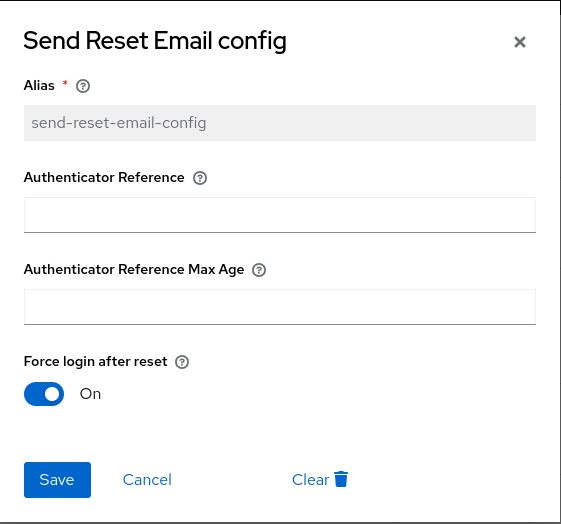
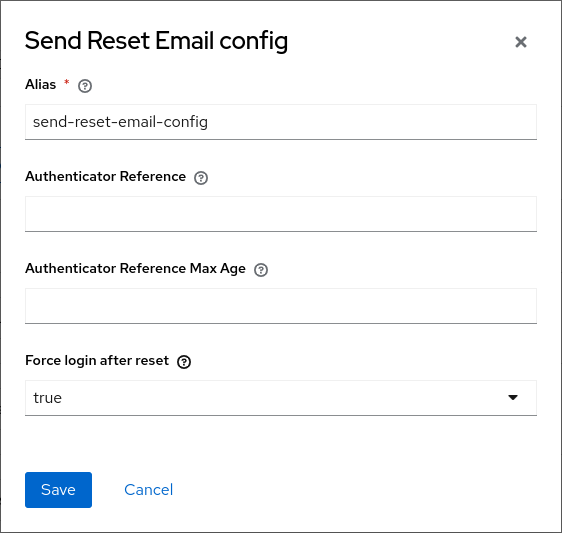
Force login in reset-credentials to federated users Closes #37207

diff --git a/testsuite/integration-arquillian/tests/base/src/test/java/org/keycloak/testsuite/forms/ResetPasswordTest.java b/testsuite/integration-arquillian/tests/base/src/test/java/org/keycloak/testsuite/forms/ResetPasswordTest.java
@@ -25,6 +25,7 @@ import org.keycloak.authentication.actiontoken.resetcred.ResetCredentialsActionT
 import org.keycloak.authentication.authenticators.resetcred.ResetCredentialEmail;
 import org.jboss.arquillian.graphene.page.Page;
 import org.keycloak.common.constants.ServiceAccountConstants;
+import org.keycloak.common.util.MultivaluedHashMap;
 import org.keycloak.common.util.KeycloakUriBuilder;
 import org.keycloak.events.Details;
 import org.keycloak.events.Errors;
@@ -37,14 +38,19 @@ import org.keycloak.models.utils.SystemClientUtil;
 import org.keycloak.representations.idm.AuthenticationExecutionInfoRepresentation;
 import org.keycloak.representations.idm.AuthenticatorConfigRepresentation;
 import org.keycloak.representations.idm.ClientRepresentation;
+import org.keycloak.representations.idm.ComponentRepresentation;
 import org.keycloak.representations.idm.EventRepresentation;
 import org.keycloak.representations.idm.RealmRepresentation;
 import org.keycloak.representations.idm.UserRepresentation;
 import org.keycloak.services.resources.LoginActionsService;
+import org.keycloak.storage.StorageId;
+import org.keycloak.storage.UserStorageProvider;
+import org.keycloak.storage.UserStorageProviderModel;
 import org.keycloak.testsuite.AssertEvents;
 import org.keycloak.testsuite.AbstractTestRealmKeycloakTest;
 import org.keycloak.testsuite.admin.ApiUtil;
 import org.keycloak.testsuite.arquillian.annotation.IgnoreBrowserDriver;
+import org.keycloak.testsuite.federation.UserMapStorageFactory;
 import org.keycloak.testsuite.federation.kerberos.AbstractKerberosTest;
 import org.keycloak.testsuite.pages.AppPage;
 import org.keycloak.testsuite.pages.AppPage.RequestType;
@@ -339,19 +345,39 @@ public class ResetPasswordTest extends AbstractTestRealmKeycloakTest {
     @Test
     public void resetPasswordForceLogin() throws IOException, MessagingException {
         // add the force login option in the reset-credential-email authenticator
-        AuthenticationExecutionInfoRepresentation sendEmailExec = testRealm()
-                .flows()
-                .getExecutions(DefaultAuthenticationFlows.RESET_CREDENTIALS_FLOW)
-                .stream()
-                .filter(e -> ResetCredentialEmail.PROVIDER_ID.equals(e.getProviderId()))
-                .findAny().orElseThrow();
-        AuthenticatorConfigRepresentation config = new AuthenticatorConfigRepresentation();
-        config.setAlias("reset-password-config");
-        config.getConfig().put(ResetCredentialEmail.FORCE_LOGIN, Boolean.TRUE.toString());
-        String configId = ApiUtil.getCreatedId(testRealm().flows().newExecutionConfig(sendEmailExec.getId(), config));
-        getCleanup().addAuthenticationConfigId(configId);
+        configureForceLogin(Boolean.TRUE.toString());
 
         resetPassword("login-test", "resetPassword", true);
+    }
+
+    @Test
+    public void resetPasswordForceLoginFederatedUser() throws IOException, MessagingException {
+        // create the example map storage user federation
+        ComponentRepresentation memProvider = new ComponentRepresentation();
+        memProvider.setName(UserStorageProvider.class.getName());
+        memProvider.setProviderId(UserMapStorageFactory.PROVIDER_ID);
+        memProvider.setProviderType(UserStorageProvider.class.getName());
+        memProvider.setConfig(new MultivaluedHashMap<>());
+        memProvider.getConfig().putSingle("priority", Integer.toString(0));
+        memProvider.getConfig().putSingle(UserStorageProviderModel.IMPORT_ENABLED, Boolean.toString(false));
+        String componentId = ApiUtil.getCreatedId(testRealm().components().add(memProvider));
+        getCleanup().addComponentId(componentId);
+
+        // remove the test user and create it but federated
+        testRealm().users().get(userId).remove();
+        UserRepresentation user = new UserRepresentation();
+        user.setUsername("login-test");
+        user.setEmail("login@test.com");
+        user.setFederationLink(componentId);
+        this.userId = ApiUtil.getCreatedId(testRealm().users().create(user));
+        Assert.assertFalse(StorageId.isLocalStorage(userId));
+
+        // by default federated users are force to re-login
+        resetPassword("login-test", "resetPassword", true);
+
+        // check with false the session is maintained
+        configureForceLogin(Boolean.FALSE.toString());
+        resetPassword("login-test", "resetPassword", false);
     }
 
     @Test
@@ -419,6 +445,20 @@ public class ResetPasswordTest extends AbstractTestRealmKeycloakTest {
         resetPasswordPage.assertCurrent();
         driver.navigate().back();
         loginPage.assertCurrent();
+    }
+
+    private void configureForceLogin(String value) {
+        AuthenticationExecutionInfoRepresentation sendEmailExec = testRealm()
+                .flows()
+                .getExecutions(DefaultAuthenticationFlows.RESET_CREDENTIALS_FLOW)
+                .stream()
+                .filter(e -> ResetCredentialEmail.PROVIDER_ID.equals(e.getProviderId()))
+                .findAny().orElseThrow();
+        AuthenticatorConfigRepresentation config = new AuthenticatorConfigRepresentation();
+        config.setAlias("reset-password-config");
+        config.getConfig().put(ResetCredentialEmail.FORCE_LOGIN, value);
+        String configId = ApiUtil.getCreatedId(testRealm().flows().newExecutionConfig(sendEmailExec.getId(), config));
+        getCleanup().addAuthenticationConfigId(configId);
     }
 
     private String resetPassword(String username) throws IOException, MessagingException {

diff --git a/services/src/main/java/org/keycloak/authentication/authenticators/resetcred/ResetCredentialEmail.java b/services/src/main/java/org/keycloak/authentication/authenticators/resetcred/ResetCredentialEmail.java
@@ -31,6 +31,7 @@ import org.keycloak.events.Errors;
 import org.keycloak.events.EventBuilder;
 import org.keycloak.events.EventType;
 import org.keycloak.models.AuthenticationExecutionModel;
+import org.keycloak.models.AuthenticatorConfigModel;
 import org.keycloak.models.KeycloakSession;
 import org.keycloak.models.KeycloakSessionFactory;
 import org.keycloak.models.RealmModel;
@@ -43,6 +44,7 @@ import org.keycloak.services.managers.AuthenticationManager;
 import org.keycloak.services.messages.Messages;
 import org.keycloak.sessions.AuthenticationSessionCompoundId;
 import org.keycloak.sessions.AuthenticationSessionModel;
+import org.keycloak.storage.StorageId;
 
 import java.util.*;
 import jakarta.ws.rs.core.Response;
@@ -60,6 +62,7 @@ public class ResetCredentialEmail implements Authenticator, AuthenticatorFactory
 
     public static final String PROVIDER_ID = "reset-credential-email";
     public static final String FORCE_LOGIN = "force-login";
+    public static final String FEDERATED_OPTION = "only-federated";
 
     @Override
     public void authenticate(AuthenticationFlowContext context) {
@@ -77,8 +80,7 @@ public class ResetCredentialEmail implements Authenticator, AuthenticatorFactory
         String actionTokenUserId = authenticationSession.getAuthNote(DefaultActionTokenKey.ACTION_TOKEN_USER_ID);
         if (actionTokenUserId != null && Objects.equals(user.getId(), actionTokenUserId)) {
             logger.debugf("Forget-password triggered when reauthenticating user after authentication via action token. Skipping " + PROVIDER_ID + " screen and using user '%s' ", user.getUsername());
-            if (context.getAuthenticatorConfig() != null
-                    && Boolean.parseBoolean(context.getAuthenticatorConfig().getConfig().get(FORCE_LOGIN))) {
+            if (forceLogin(context.getAuthenticatorConfig(), user)) {
                 // force end of auth session after the required actions
                 context.getAuthenticationSession().setAuthNote(AuthenticationManager.END_AFTER_REQUIRED_ACTIONS, "true");
             }
@@ -205,10 +207,13 @@ public class ResetCredentialEmail implements Authenticator, AuthenticatorFactory
                         If this property is true, the user needs to login again after the reset credentials.
                         If this property is false, the user will be automatically logged in after the succesful
                         reset credentials when the same authentication session is used.
+                        If this property is only-federated (default), only federated users will be forced to login again,
+                        users stored in the internal database will be logged in if using the same authentication session.
                         """
                 )
-                .type(ProviderConfigProperty.BOOLEAN_TYPE)
-                .defaultValue(Boolean.FALSE.toString())
+                .type(ProviderConfigProperty.LIST_TYPE)
+                .options(Arrays.asList(Boolean.TRUE.toString(), Boolean.FALSE.toString(), FEDERATED_OPTION))
+                .defaultValue(FEDERATED_OPTION)
                 .add()
                 .build();
     }
@@ -236,5 +241,20 @@ public class ResetCredentialEmail implements Authenticator, AuthenticatorFactory
     @Override
     public String getId() {
         return PROVIDER_ID;
+    }
+
+    private boolean forceLogin(AuthenticatorConfigModel config, UserModel user) {
+        final String forceLogin = config != null? config.getConfig().get(FORCE_LOGIN) : null;
+        if (forceLogin == null || FEDERATED_OPTION.equalsIgnoreCase(forceLogin)) {
+            // default is only-federated, return true only for federated users
+            return !StorageId.isLocalStorage(user.getId()) || user.getFederationLink() != null;
+        } else if (Boolean.TRUE.toString().equalsIgnoreCase(forceLogin)) {
+            return Boolean.TRUE;
+        } else if (Boolean.FALSE.toString().equalsIgnoreCase(forceLogin)) {
+            return Boolean.FALSE;
+        } else {
+            logger.warnf("Invalid value for force-login option: %s", forceLogin);
+            throw new AuthenticationFlowException("Invalid value for force-login option: " + forceLogin, AuthenticationFlowError.INTERNAL_ERROR);
+        }
     }
 }
